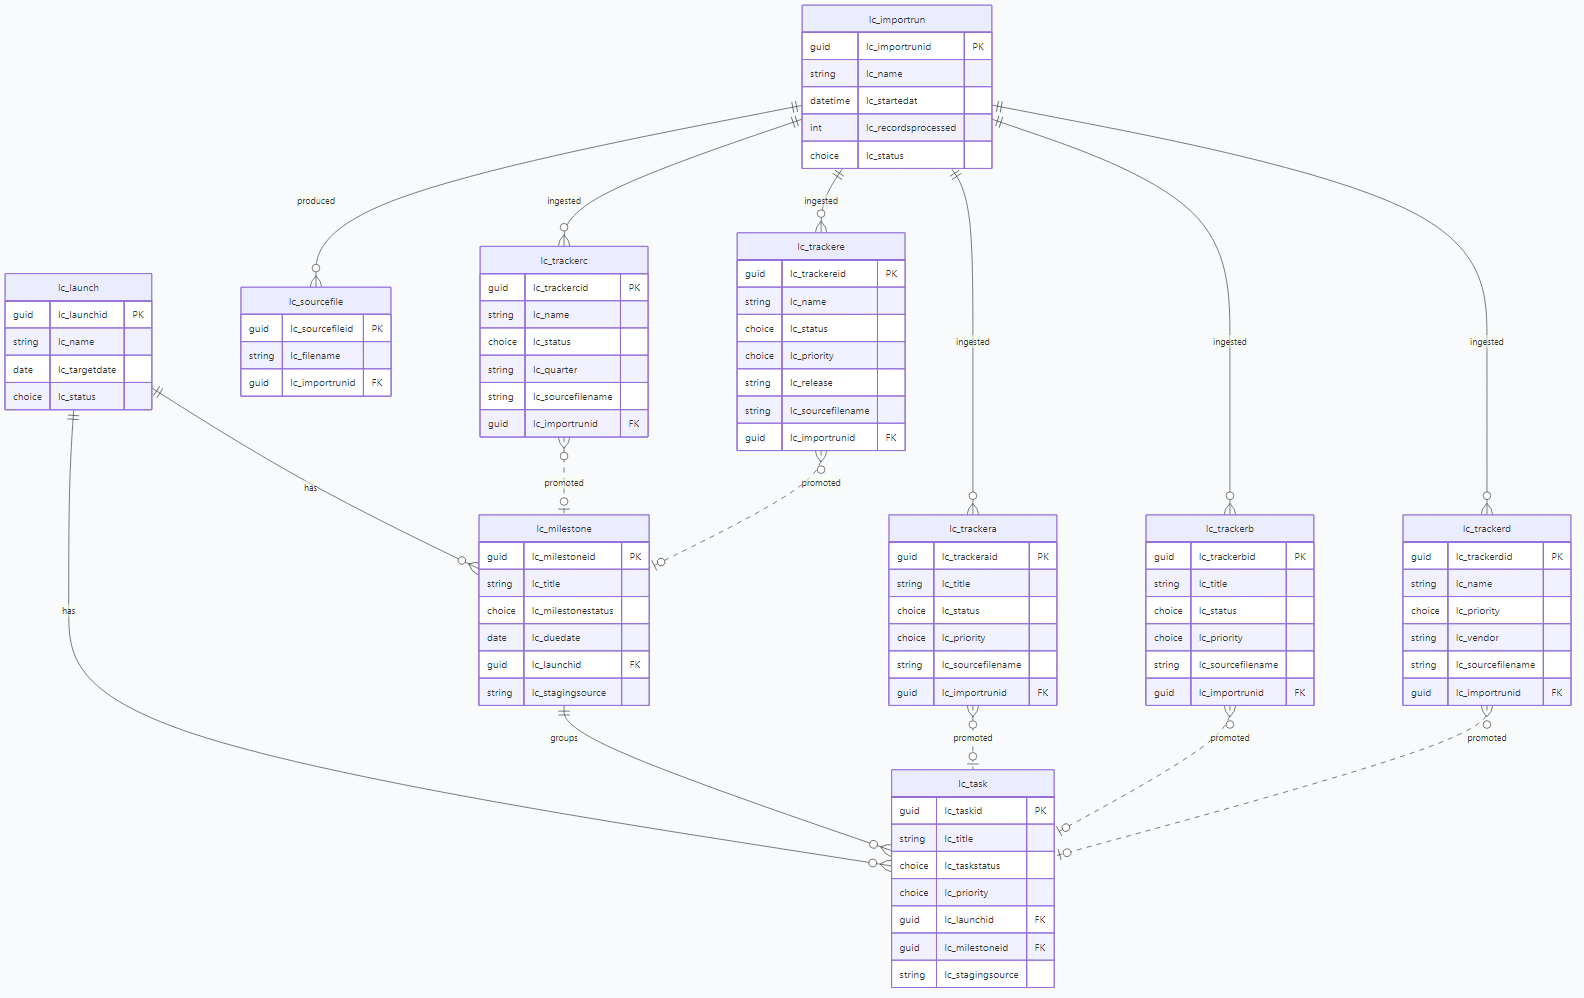
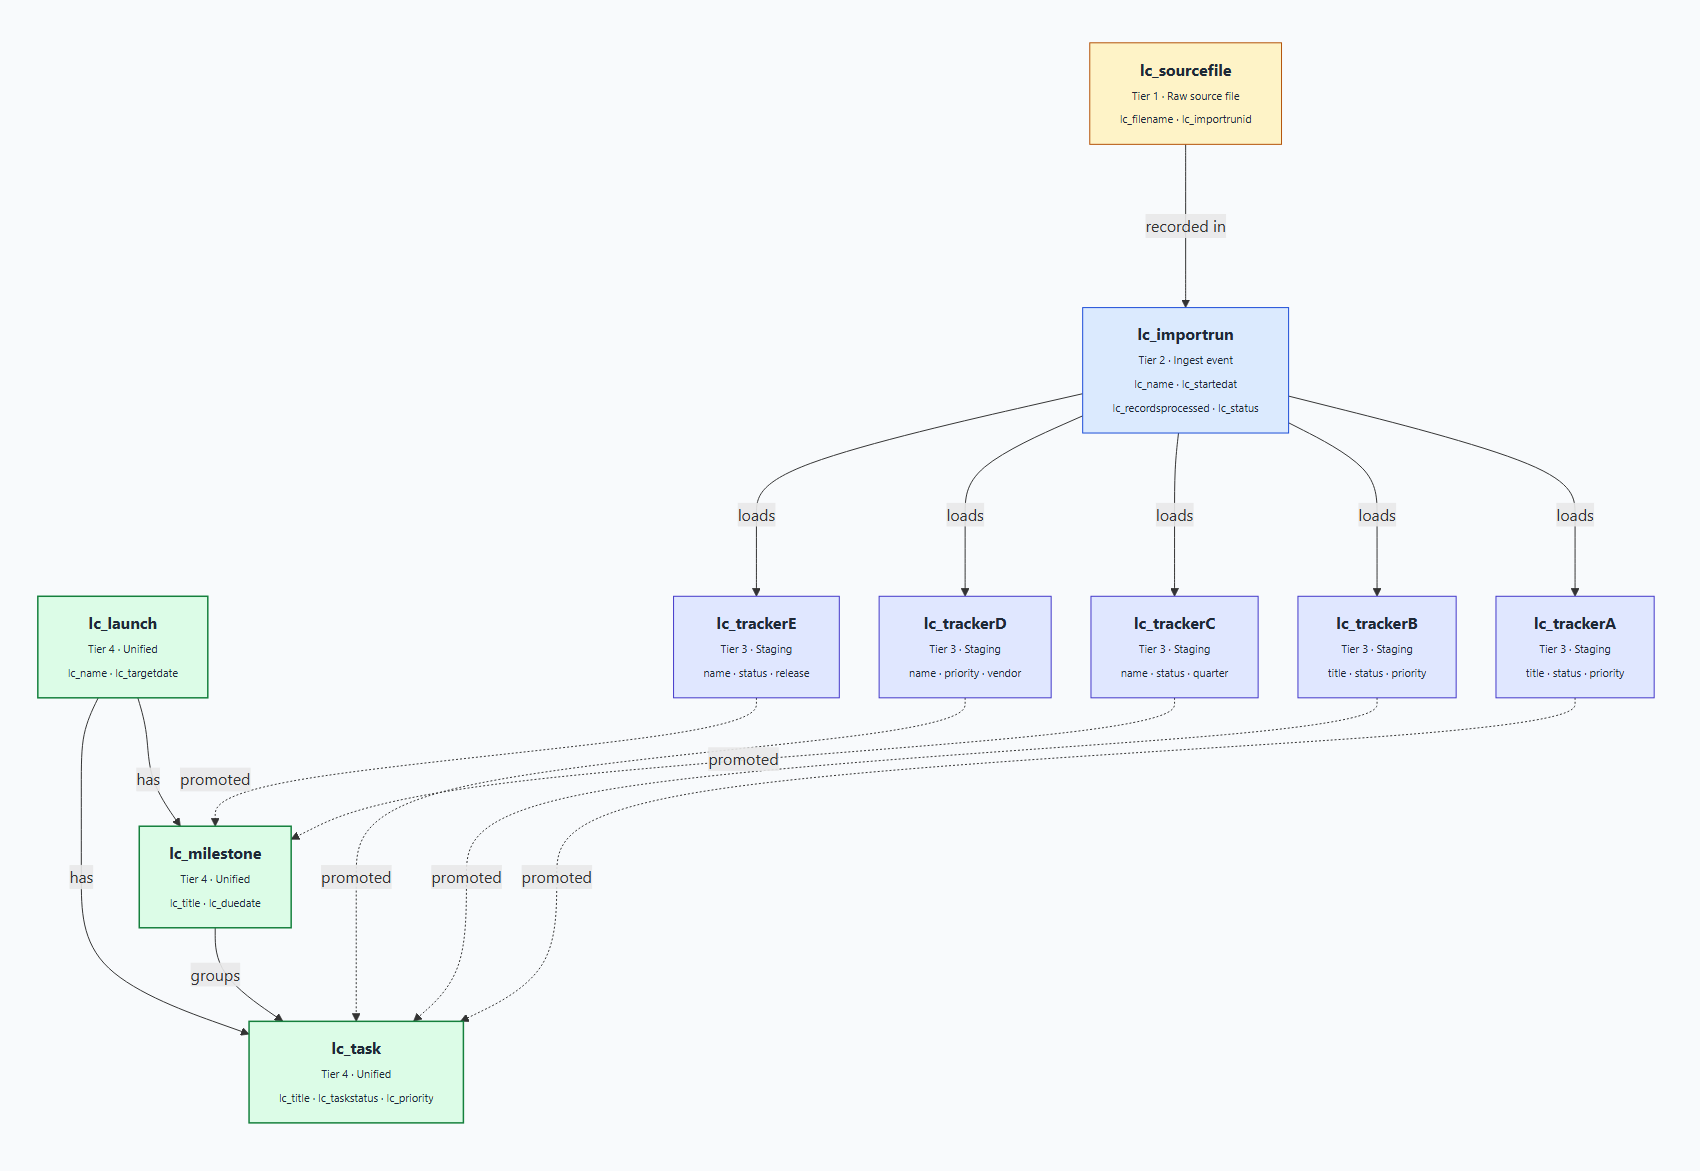
[Ep 01] Regenerate ERD as 4-tier data-flow tree
Switched scripts/python/erd_diagram.py from Mermaid erDiagram (which
auto-arranges and doesn't honor tier intent) to a flowchart TB with one
subgraph per tier and color-coded nodes:

  Tier 1  lc_sourcefile           raw source file
  Tier 2  lc_importrun            ingest event
  Tier 3  lc_trackerA..E          staging tables, one per source system
  Tier 4  lc_launch / milestone / lc_task   unified model

Solid arrows = hard Dataverse lookups (recorded in / loads / has / groups).
Dashed arrows = logical 'promoted' edges where staging rows get merged into
a real launch / milestone / task via lc_stagingsource.

Each node carries its tier label and 2-3 key columns so the picture is
self-explanatory without the README caption. Regenerated artifacts/erd.mmd
and artifacts/erd.png. README 'What gets built' caption updated.

diff --git a/scripts/python/erd_diagram.py b/scripts/python/erd_diagram.py
@@ -1,18 +1,24 @@
-"""Episode 3 visual — ERD of the Launch Control data model.
+"""Visual — 4-tier tree view of the Launch Control data model.
 
-Emits a Mermaid `erDiagram` showing all 10 tables with their key
-columns and relationships:
+Emits a Mermaid `flowchart TB` showing the data flow as a tree:
 
-    lc_launch  -|<-  lc_task, lc_milestone
-    lc_milestone  -|<-  lc_task
-    lc_importrun  -|<-  lc_sourcefile, lc_trackera..e
-    lc_trackera..e  -.->  lc_task / lc_milestone   (logical, via lc_stagingsource)
+    Tier 1 — lc_sourcefile         (raw source files)
+       |
+    Tier 2 — lc_importrun          (ingest event)
+       |
+    Tier 3 — lc_trackerA..E        (staging tables, 1 per source system)
+       |
+    Tier 4 — lc_launch, lc_milestone, lc_task   (unified model)
+
+Solid arrows = hard Dataverse lookups. Dashed arrows = logical
+"promoted to" edges (staging rows get unified into a real launch/
+milestone/task via the lc_stagingsource string).
 
 Outputs:
     launch-control/artifacts/erd.mmd       Mermaid source (paste into
                                            mermaid.live or render in any
                                            Markdown that supports Mermaid)
-    launch-control/artifacts/erd.png       Rendered via mermaid.ink
+    launch-control/artifacts/erd.png       Rendered via mermaid-cli (npx)
 
 Usage:
     python launch-control/scripts/python/erd_diagram.py
@@ -20,142 +26,72 @@ Usage:
 
 from __future__ import annotations
 
-import base64
 import sys
-import urllib.request
 from pathlib import Path
 
 ROOT = Path(__file__).resolve().parent.parent.parent
 
 
-# ---------- Entity definitions (column lists) ----------
-#
-# Keep each box to ~6 columns max so the diagram stays legible.
-# PK first, primary text next, then 1-2 status/priority columns,
-# then the lookups (FK columns) that drive the relationships.
+def build_mermaid() -> str:
+    return r"""flowchart TB
+    classDef tier1 fill:#fef3c7,stroke:#b45309,stroke-width:1px,color:#1f2937;
+    classDef tier2 fill:#dbeafe,stroke:#1d4ed8,stroke-width:1px,color:#1f2937;
+    classDef tier3 fill:#e0e7ff,stroke:#4338ca,stroke-width:1px,color:#1f2937;
+    classDef tier4 fill:#dcfce7,stroke:#15803d,stroke-width:1.5px,color:#1f2937;
 
-ENTITIES: dict[str, list[tuple[str, str, str | None]]] = {
-    "lc_launch": [
-        ("guid",     "lc_launchid",      "PK"),
-        ("string",   "lc_name",          None),
-        ("date",     "lc_targetdate",    None),
-        ("choice",   "lc_status",        None),
-    ],
-    "lc_task": [
-        ("guid",     "lc_taskid",          "PK"),
-        ("string",   "lc_title",           None),
-        ("choice",   "lc_taskstatus",      None),
-        ("choice",   "lc_priority",        None),
-        ("guid",     "lc_launchid",        "FK"),
-        ("guid",     "lc_milestoneid",     "FK"),
-        ("string",   "lc_stagingsource",   None),
-    ],
-    "lc_milestone": [
-        ("guid",     "lc_milestoneid",     "PK"),
-        ("string",   "lc_title",           None),
-        ("choice",   "lc_milestonestatus", None),
-        ("date",     "lc_duedate",         None),
-        ("guid",     "lc_launchid",        "FK"),
-        ("string",   "lc_stagingsource",   None),
-    ],
-    "lc_importrun": [
-        ("guid",     "lc_importrunid",     "PK"),
-        ("string",   "lc_name",            None),
-        ("datetime", "lc_startedat",       None),
-        ("int",      "lc_recordsprocessed", None),
-        ("choice",   "lc_status",          None),
-    ],
-    "lc_sourcefile": [
-        ("guid",     "lc_sourcefileid",    "PK"),
-        ("string",   "lc_filename",        None),
-        ("guid",     "lc_importrunid",     "FK"),
-    ],
-    "lc_trackera": [
-        ("guid",     "lc_trackeraid",      "PK"),
-        ("string",   "lc_title",           None),
-        ("choice",   "lc_status",          None),
-        ("choice",   "lc_priority",        None),
-        ("string",   "lc_sourcefilename",  None),
-        ("guid",     "lc_importrunid",     "FK"),
-    ],
-    "lc_trackerb": [
-        ("guid",     "lc_trackerbid",      "PK"),
-        ("string",   "lc_title",           None),
-        ("choice",   "lc_status",          None),
-        ("choice",   "lc_priority",        None),
-        ("string",   "lc_sourcefilename",  None),
-        ("guid",     "lc_importrunid",     "FK"),
-    ],
-    "lc_trackerc": [
-        ("guid",     "lc_trackercid",      "PK"),
-        ("string",   "lc_name",            None),
-        ("choice",   "lc_status",          None),
-        ("string",   "lc_quarter",         None),
-        ("string",   "lc_sourcefilename",  None),
-        ("guid",     "lc_importrunid",     "FK"),
-    ],
-    "lc_trackerd": [
-        ("guid",     "lc_trackerdid",      "PK"),
-        ("string",   "lc_name",            None),
-        ("choice",   "lc_priority",        None),
-        ("string",   "lc_vendor",          None),
-        ("string",   "lc_sourcefilename",  None),
-        ("guid",     "lc_importrunid",     "FK"),
-    ],
-    "lc_trackere": [
-        ("guid",     "lc_trackereid",      "PK"),
-        ("string",   "lc_name",            None),
-        ("choice",   "lc_status",          None),
-        ("choice",   "lc_priority",        None),
-        ("string",   "lc_release",         None),
-        ("string",   "lc_sourcefilename",  None),
-        ("guid",     "lc_importrunid",     "FK"),
-    ],
-}
+    subgraph T1 [" "]
+        direction LR
+        SF["<b>lc_sourcefile</b><br/><span style='font-size:11px'>Tier 1 &middot; Raw source file<br/>lc_filename &middot; lc_importrunid</span>"]:::tier1
+    end
 
-# ---------- Relationships ----------
-# (parent, child, label, hard_or_logical)
-# hard = real Dataverse lookup; logical = via lc_stagingsource string
+    subgraph T2 [" "]
+        direction LR
+        IR["<b>lc_importrun</b><br/><span style='font-size:11px'>Tier 2 &middot; Ingest event<br/>lc_name &middot; lc_startedat<br/>lc_recordsprocessed &middot; lc_status</span>"]:::tier2
+    end
 
-RELATIONSHIPS: list[tuple[str, str, str, str]] = [
-    ("lc_launch",     "lc_task",        "has",       "hard"),
-    ("lc_launch",     "lc_milestone",   "has",       "hard"),
-    ("lc_milestone",  "lc_task",        "groups",    "hard"),
-    ("lc_importrun",  "lc_sourcefile",  "produced",  "hard"),
-    ("lc_importrun",  "lc_trackera",    "ingested",  "hard"),
-    ("lc_importrun",  "lc_trackerb",    "ingested",  "hard"),
-    ("lc_importrun",  "lc_trackerc",    "ingested",  "hard"),
-    ("lc_importrun",  "lc_trackerd",    "ingested",  "hard"),
-    ("lc_importrun",  "lc_trackere",    "ingested",  "hard"),
-    ("lc_trackera",   "lc_task",        "promoted",  "logical"),
-    ("lc_trackerb",   "lc_task",        "promoted",  "logical"),
-    ("lc_trackerd",   "lc_task",        "promoted",  "logical"),
-    ("lc_trackerc",   "lc_milestone",   "promoted",  "logical"),
-    ("lc_trackere",   "lc_milestone",   "promoted",  "logical"),
-]
+    subgraph T3 [" "]
+        direction LR
+        TA["<b>lc_trackerA</b><br/><span style='font-size:11px'>Tier 3 &middot; Staging<br/>title &middot; status &middot; priority</span>"]:::tier3
+        TB["<b>lc_trackerB</b><br/><span style='font-size:11px'>Tier 3 &middot; Staging<br/>title &middot; status &middot; priority</span>"]:::tier3
+        TC["<b>lc_trackerC</b><br/><span style='font-size:11px'>Tier 3 &middot; Staging<br/>name &middot; status &middot; quarter</span>"]:::tier3
+        TD["<b>lc_trackerD</b><br/><span style='font-size:11px'>Tier 3 &middot; Staging<br/>name &middot; priority &middot; vendor</span>"]:::tier3
+        TE["<b>lc_trackerE</b><br/><span style='font-size:11px'>Tier 3 &middot; Staging<br/>name &middot; status &middot; release</span>"]:::tier3
+    end
+
+    subgraph T4 [" "]
+        direction LR
+        L["<b>lc_launch</b><br/><span style='font-size:11px'>Tier 4 &middot; Unified<br/>lc_name &middot; lc_targetdate</span>"]:::tier4
+        M["<b>lc_milestone</b><br/><span style='font-size:11px'>Tier 4 &middot; Unified<br/>lc_title &middot; lc_duedate</span>"]:::tier4
+        TK["<b>lc_task</b><br/><span style='font-size:11px'>Tier 4 &middot; Unified<br/>lc_title &middot; lc_taskstatus &middot; lc_priority</span>"]:::tier4
+    end
+
+    SF -->|"recorded in"| IR
+    IR -->|"loads"| TA
+    IR -->|"loads"| TB
+    IR -->|"loads"| TC
+    IR -->|"loads"| TD
+    IR -->|"loads"| TE
+
+    TA -.->|"promoted"| TK
+    TB -.->|"promoted"| TK
+    TD -.->|"promoted"| TK
+    TC -.->|"promoted"| M
+    TE -.->|"promoted"| M
+
+    L -->|"has"| M
+    L -->|"has"| TK
+    M -->|"groups"| TK
+
+    style T1 fill:transparent,stroke:transparent
+    style T2 fill:transparent,stroke:transparent
+    style T3 fill:transparent,stroke:transparent
+    style T4 fill:transparent,stroke:transparent
+"""
 
 
-def build_mermaid(include_columns: bool = True) -> str:
-    lines: list[str] = ["erDiagram"]
-
-    for parent, child, label, kind in RELATIONSHIPS:
-        connector = "||--o{" if kind == "hard" else "}o..o|"
-        lines.append(f"    {parent} {connector} {child} : \"{label}\"")
-
-    if include_columns:
-        lines.append("")
-        for entity, cols in ENTITIES.items():
-            lines.append(f"    {entity} {{")
-            for typ, name, marker in cols:
-                suffix = f" {marker}" if marker else ""
-                lines.append(f"        {typ} {name}{suffix}")
-            lines.append("    }")
-
-    return "\n".join(lines) + "\n"
-
-
-def render_via_mermaid_ink(mmd: str, out_path: Path) -> bool:
+def render_via_mermaid_cli(mmd: str, out_path: Path) -> bool:
     """Render the .mmd via mermaid-cli (mmdc), invoked through npx. Returns True on success."""
+    import json
     import shutil
     import subprocess
     import tempfile
@@ -168,23 +104,26 @@ def render_via_mermaid_ink(mmd: str, out_path: Path) -> bool:
     with tempfile.NamedTemporaryFile("w", suffix=".mmd", delete=False, encoding="utf-8") as tmp:
         tmp.write(mmd)
         tmp_path = tmp.name
+    cfg = {
+        "theme": "default",
+        "themeVariables": {"fontFamily": "Segoe UI, Inter, sans-serif"},
+        "flowchart": {"htmlLabels": True, "curve": "basis", "nodeSpacing": 40, "rankSpacing": 70},
+    }
+    with tempfile.NamedTemporaryFile("w", suffix=".json", delete=False, encoding="utf-8") as cfg_file:
+        json.dump(cfg, cfg_file)
+        cfg_path = cfg_file.name
     try:
-        cfg = {"theme": "default", "themeVariables": {"fontFamily": "Segoe UI, Inter, sans-serif"}}
-        with tempfile.NamedTemporaryFile("w", suffix=".json", delete=False, encoding="utf-8") as cfg_file:
-            import json
-            json.dump(cfg, cfg_file)
-            cfg_path = cfg_file.name
         cmd = [
             npx, "-y", "@mermaid-js/mermaid-cli@latest",
             "-i", tmp_path,
             "-o", str(out_path),
             "-b", "#f8fafc",
-            "-w", "1600",
+            "-w", "1800",
             "-c", cfg_path,
         ]
-        result = subprocess.run(cmd, capture_output=True, text=True, timeout=180)
+        result = subprocess.run(cmd, capture_output=True, text=True, timeout=240)
         if result.returncode != 0:
-            print(f"  mmdc failed (rc={result.returncode}): {result.stderr.strip()[:300]}", file=sys.stderr)
+            print(f"  mmdc failed (rc={result.returncode}): {result.stderr.strip()[:400]}", file=sys.stderr)
             return False
         return True
     except Exception as exc:
@@ -206,11 +145,10 @@ def main() -> None:
 
     mmd_path = out_dir / "erd.mmd"
     mmd_path.write_text(mmd, encoding="utf-8")
-    print(f"Wrote {mmd_path.relative_to(ROOT)}  ({len(ENTITIES)} entities, "
-          f"{len(RELATIONSHIPS)} relationships)")
+    print(f"Wrote {mmd_path.relative_to(ROOT)}  (4-tier tree view)")
 
     png_path = out_dir / "erd.png"
-    if render_via_mermaid_ink(mmd, png_path):
+    if render_via_mermaid_cli(mmd, png_path):
         print(f"Wrote {png_path.relative_to(ROOT)}")
     else:
         print("  Tip: paste artifacts/erd.mmd into https://mermaid.live to preview / export.")

diff --git a/episodes/ep-01-data-modeling/README.md b/episodes/ep-01-data-modeling/README.md
@@ -89,10 +89,12 @@ Every staging table automatically gets four provenance columns
 
 The agent also produced an ERD of the model it built — Mermaid source in
 [`artifacts/erd.mmd`](../../artifacts/erd.mmd), rendered PNG at
-[`artifacts/erd.png`](../../artifacts/erd.png). One picture that shows the five
-unified tables, the staging-to-unified promotion paths, and the provenance
-spine (`lc_ImportRun` → everything). Re-runnable: edit the model, regenerate
-the diagram with `python scripts/python/erd_diagram.py`.
+[`artifacts/erd.png`](../../artifacts/erd.png). Laid out as a **4-tier tree
+that mirrors the data flow**: raw source file → ingest event → five staging
+trackers (one per source system) → unified launch model. Solid arrows are
+hard Dataverse lookups; dashed arrows are the "promoted" edges where staging
+rows are merged into a real launch / milestone / task. Re-runnable: edit the
+model, regenerate with `python scripts/python/erd_diagram.py`.
 
 ![Entity relationship diagram](../../artifacts/erd.png)
 